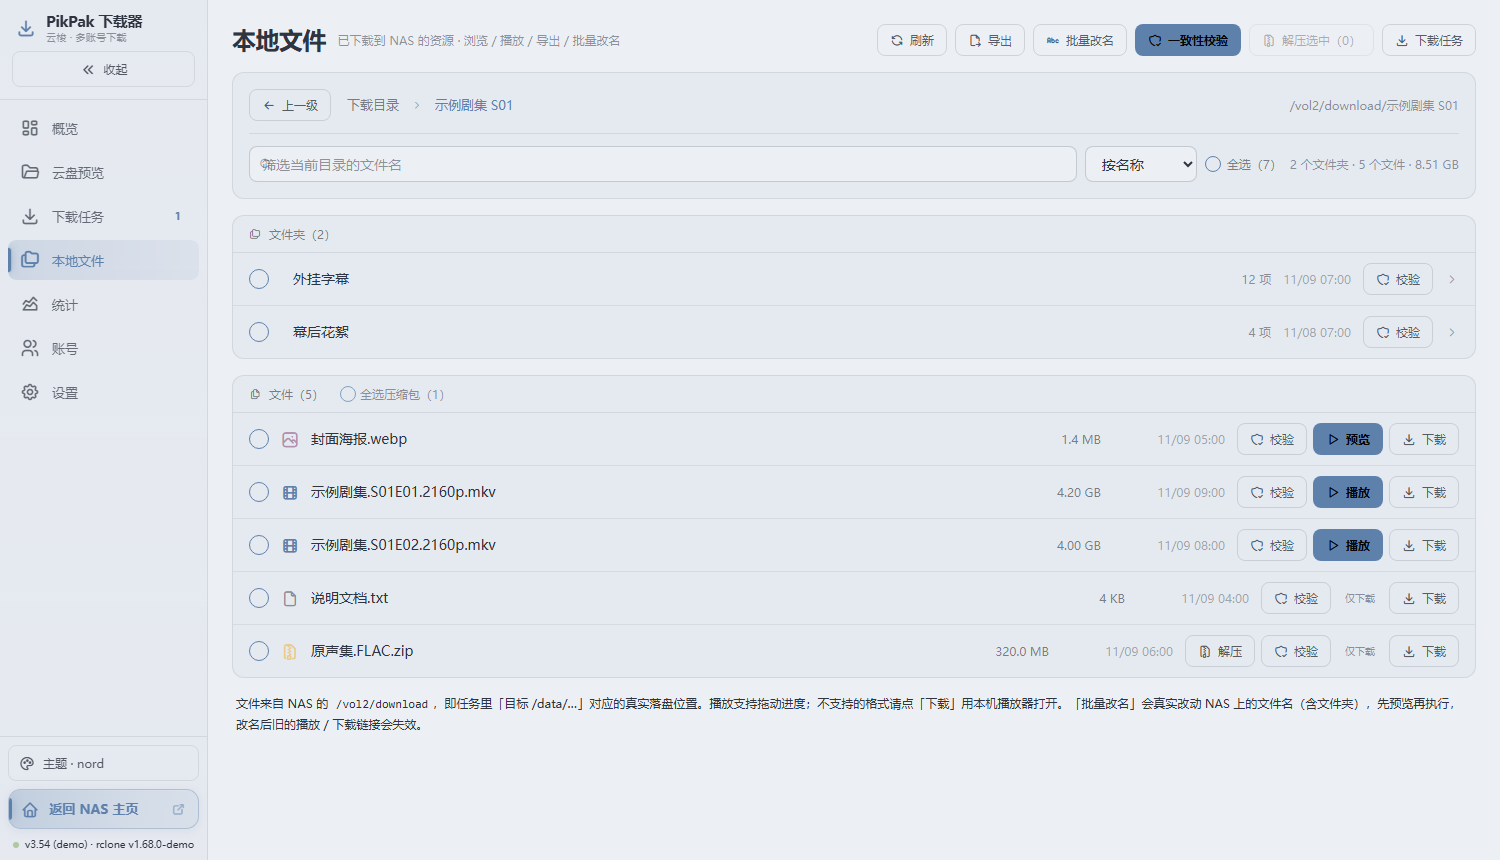
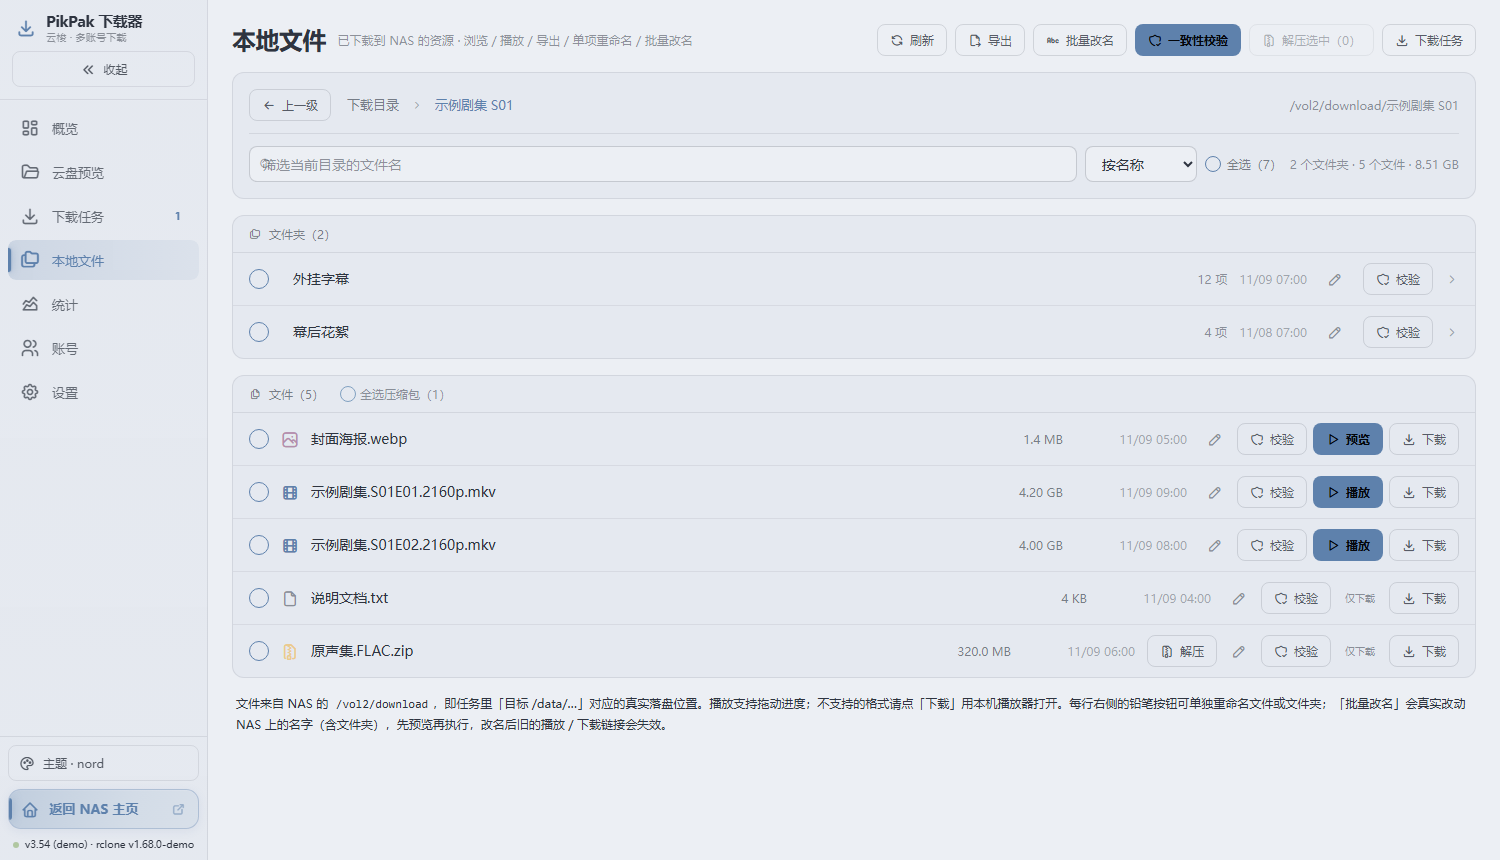
feat(v3.56): 本地文件页新增文件夹/文件单项重命名
- 文件夹行与文件行各加铅笔按钮，点击输入新名字即可单独改名，与云盘页对齐
- 复用 localrenamebatch 的合法性/重名/软链接/越界校验与失败回滚，不新增后端接口
- 成功后刷新当前目录并清理勾选；README/CHANGELOG/API 文档与本地文件页截图同步

diff --git a/static/index.html b/static/index.html
@@ -763,7 +763,7 @@
             <div v-else-if="page==='files'" class="flex flex-col gap-4">
               <div class="fade-slide-in flex flex-wrap items-center gap-3">
                 <h1 class="text-2xl font-bold tracking-tight">本地文件</h1>
-                <span class="text-xs text-base-content/50">已下载到 NAS 的资源 · 浏览 / 播放 / 导出 / 批量改名</span>
+                <span class="text-xs text-base-content/50">已下载到 NAS 的资源 · 浏览 / 播放 / 导出 / 单项重命名 / 批量改名</span>
                 <div class="ml-auto flex flex-wrap items-center gap-2">
                   <button class="btn-sm" :disabled="lfLoading" @click="reloadLocalFiles">
                     <i class="ti ti-refresh" :class="lfLoading ? 'animate-spin' : ''"></i>刷新
@@ -847,6 +847,7 @@
                   </button>
                   <span class="text-xs tabular-nums text-base-content/50">{{d.count}} 项</span>
                   <span class="hidden text-xs tabular-nums text-base-content/40 sm:inline">{{fmtTime(d.mtime)}}</span>
+                  <button class="btn-icon always" :title="'重命名此文件夹：'+d.name" @click="localRenameOne(d.name)"><i class="ti ti-pencil"></i></button>
                   <button class="btn-sm" :title="'校验此文件夹与云端：'+d.name" @click="openVerify({localPath: lfPath ? lfPath + '/' + d.name : d.name})"><i class="ti ti-shield-check"></i>校验</button>
                   <i class="ti ti-chevron-right text-sm leading-none text-base-content/40"></i>
                 </div>
@@ -873,6 +874,7 @@
                   <span class="hidden w-28 shrink-0 text-right text-xs tabular-nums text-base-content/40 md:inline">{{fmtTime(f.mtime)}}</span>
                   <div class="flex shrink-0 items-center gap-1.5">
                     <button v-if="f.archive" class="btn-sm" :title="'解压到同目录下的同名文件夹：' + f.name" @click="openLocalUnzip([f.name])"><i class="ti ti-file-zip"></i>解压</button>
+                    <button class="btn-icon always" :title="'重命名此文件：'+f.name" @click="localRenameOne(f.name)"><i class="ti ti-pencil"></i></button>
                     <button class="btn-sm" :title="'校验此文件与云端：'+f.name" @click="openVerify({localPath: lfPath ? lfPath + '/' + f.name : f.name})"><i class="ti ti-shield-check"></i>校验</button>
                     <button v-if="f.playable" class="btn-sm primary" @click="openPlayer(f)"><i class="ti ti-player-play"></i>{{f.kind==='audio' ? '播放' : f.kind==='video' ? '播放' : '预览'}}</button>
                     <span v-else class="rounded-md bg-base-content/8 px-2 py-1 text-[10px] text-base-content/50" title="浏览器不支持直接播放，请下载到本机">仅下载</span>
@@ -885,7 +887,7 @@
                 <i class="ti ti-folder-off"></i>{{lfQuery ? '没有匹配的文件' : '这个目录是空的'}}
               </div>
               <div class="px-1 text-xs leading-relaxed text-base-content/45">
-                文件来自 NAS 的 <code class="rounded bg-base-content/8 px-1">/vol2/download</code>，即任务里「目标 /data/…」对应的真实落盘位置。播放支持拖动进度；不支持的格式请点「下载」用本机播放器打开。「批量改名」会真实改动 NAS 上的文件名（含文件夹），先预览再执行，改名后旧的播放 / 下载链接会失效。
+                文件来自 NAS 的 <code class="rounded bg-base-content/8 px-1">/vol2/download</code>，即任务里「目标 /data/…」对应的真实落盘位置。播放支持拖动进度；不支持的格式请点「下载」用本机播放器打开。每行右侧的铅笔按钮可单独重命名文件或文件夹；「批量改名」会真实改动 NAS 上的名字（含文件夹），先预览再执行，改名后旧的播放 / 下载链接会失效。
               </div>
             </div>
 

diff --git a/static/app.js b/static/app.js
@@ -1707,6 +1707,30 @@ Vue.createApp({
       this.renameBusy = false;
     },
 
+    /* ---------- v3.56：本地文件 / 文件夹单项重命名 ---------- */
+    /* 与云盘页 cloudRename 对称；后端复用 localrenamebatch 的冲突、越界、软链接校验与失败回滚 */
+    async localRenameOne(name) {
+      if (!name) return;
+      const nn = window.prompt("重命名 NAS 本地文件或文件夹", name);
+      if (nn == null) return;
+      const to = String(nn).trim();
+      if (!to || to === name) return;
+      if (/[\\/]/.test(to)) { this.toast("新名字不能包含路径分隔符", "error"); return; }
+      try {
+        const d = await this.api("localrenamebatch", {
+          path: this.lfPath, items: [{ from: name, to }]
+        }, 120000);
+        if (d.error) { this.toast(d.error, "error"); return; }
+        if ((d.failed || []).length) {
+          this.toast(d.failed[0].error || "重命名失败", "error");
+          return;
+        }
+        this.lfPicked = (this.lfPicked || []).filter(x => x !== name);
+        this.toast("已重命名：" + name + " → " + to, "ok");
+        await this.loadLocalFiles(this.lfPath);
+      } catch (e) { this.toast("重命名失败：" + e.message, "error"); }
+    },
+
     /* ---------- v3.44 回收站 ---------- */
     trashSupported() {
       /* 只有 PikPak 有服务端回收站；其它网盘（openlist 等）删了就是删了 */

diff --git a/download-console.py b/download-console.py
@@ -52,7 +52,7 @@ ACCT_META_PATHS = (os.path.join(DATA_DIR, "accounts_meta.json"), "/app/accounts_
                    "/vol1/@appshare/zcode/console/accounts_meta.json",
                    os.path.join(os.path.dirname(os.path.abspath(__file__)), "accounts_meta.json"))
 # 控制台版本：启动横幅与前端页脚共用这一处，避免前端硬编码再次落后
-APP_VERSION = "v3.55"
+APP_VERSION = "v3.56"
 
 
 # ── v3.38：凭证错误脱敏 + 「需要重新登录」识别 ────────────────────────────

diff --git a/CHANGELOG.md b/CHANGELOG.md
@@ -3,6 +3,14 @@
 本仓库为首次公开整理，只记录仓库化时的版本与最近五次变更；更早的迭代没有保留独立记录。
 版本号对应 `download-console.py` 里的 `APP_VERSION`，也显示在页面页脚。
 
+## v3.56 — 本地文件单项重命名（2026-11-09）
+
+**新增：本地文件页可单独重命名文件夹 / 文件**
+
+- 「本地文件」页每个文件夹行、文件行右侧增加铅笔按钮，点击输入新名字即可单独改名，与云盘页的单文件重命名对齐；
+- 复用既有 `localrenamebatch` 接口，不新增后端 action：名称合法性、目标重名、源文件缺失、软链接与路径越界、两阶段临时名 + 失败回滚全部沿用；
+- 改名成功后自动刷新当前目录、清掉对应勾选；旧的播放 / 下载链接会失效。
+
 ## v3.55 — Docker 一键部署 + 自定义代理地址（2026-11-09）
 
 **新增：Linux / Windows 一键部署**

diff --git a/docs/API.md b/docs/API.md
@@ -21,7 +21,7 @@ curl -s -X POST http://<控制台地址>/api \
 | `accounts` / `accttest` / `acctpurge` | 账号列表 / 单账号测试 / 清理无 type 的残留配置段 |
 | `jobs` / `start` / `stop` / `resume` / `remove` | 任务列表 / 启动 / 停止 / 断点续传 / 删除 |
 | `dirs` / `localdirs` / `scanpath` | 云盘与本地目录浏览 |
-| `localfiles` / `localrenamebatch` | 本地文件浏览 / NAS 侧批量重命名 |
+| `localfiles` / `localrenamebatch` | 本地文件浏览 / NAS 侧重命名（批量与单项共用，items 传 1 项即单项） |
 | `renamebatch` | 云盘目录内批量重命名 |
 | `version` | 版本与运行状态 |
 

diff --git a/docs/DEPLOYMENT.md b/docs/DEPLOYMENT.md
@@ -70,7 +70,7 @@ cp .env.example .env
 docker compose -f docker-compose.example.yml up -d --build
 # Windows 额外加： -f docker-compose.windows.yml
 docker compose -f docker-compose.example.yml logs -f download-console
-# 看到「PikPak 多账号下载器（云梭 CloudShuttle）v3.55」启动横幅即正常
+# 看到「PikPak 多账号下载器（云梭 CloudShuttle）v3.56」启动横幅即正常
 
 curl -s -X POST http://127.0.0.1:5566/api \
   -H 'Content-Type: application/json' -d '{"action":"version"}'
